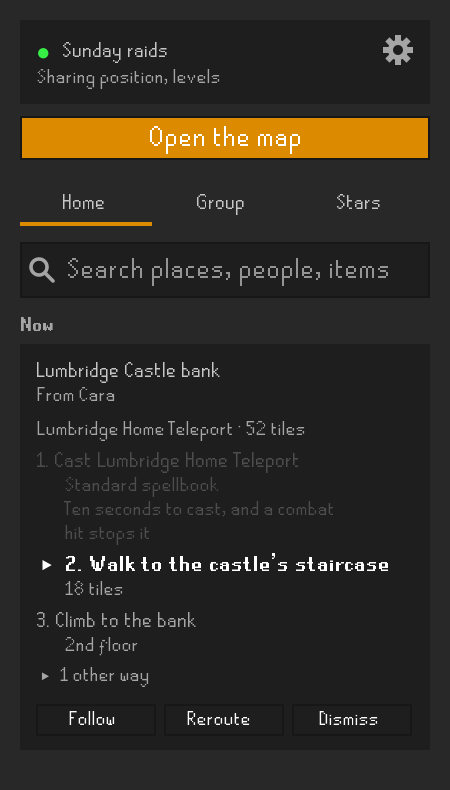
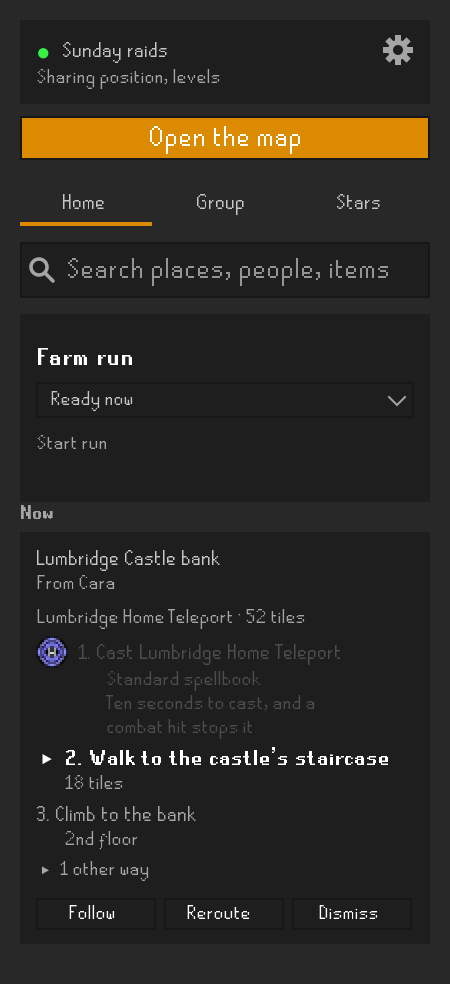
Picture the route and farm run with their steps' sprites
The README's route picture now shows the home teleport's spell icon on its step, and the farm run
picture the Catherby tablet's sprite on the current leg, as the sidebar draws them. Both are the
actual panels painted by the polish renderer, which now sets a step's picture by the field the
map sends and answers a spell's sprite id from the website's copy of the same icon. The route
picture is taller than the one it replaces because Home has carried the Farm run picker since.

The before and after renders are kept with a note on what the renderer can and cannot show: it
reads the website's copies of the art, so loading from a live client's caches stays a live check.
A phone preview of the README at 320, 390 and 736px in both themes loaded every picture with no
overflow.

diff --git a/docs/review-evidence/sidebar-polish-2026-10-29/SidebarPolishShot.java b/docs/review-evidence/sidebar-polish-2026-10-29/SidebarPolishShot.java
@@ -383,8 +383,8 @@ public class SidebarPolishShot
 		best.best = true;
 		best.tiles = 52;
 		best.steps = new ArrayList<>(Arrays.asList(
-			Steps.icon(step("method", "Cast Lumbridge Home Teleport", "Standard spellbook", false, 3222, 3218, null,
-				"Ten seconds to cast, and a combat hit stops it"), "spell:lumbridge-home-teleport"),
+			Steps.picture(step("method", "Cast Lumbridge Home Teleport", "Standard spellbook", false, 3222, 3218, null,
+				"Ten seconds to cast, and a combat hit stops it"), "spriteId", net.runelite.api.gameval.SpriteID.Magicon2.LUMBRIDGE_HOME_TELEPORT),
 			step("walk-leg", "Walk to the castle's staircase", "18 tiles", true, 3206, 3209, null),
 			step("walk-leg", "Climb to the bank", "2nd floor", true, 3208, 3220, 2)));
 		RelayResponse.RouteOption ring = new RelayResponse.RouteOption();
@@ -392,7 +392,7 @@ public class SidebarPolishShot
 		ring.label = "Ring of dueling";
 		ring.tiles = 80;
 		ring.steps = new ArrayList<>(Collections.singletonList(
-			Steps.icon(step("method", "Rub a ring of dueling", "Ferox Enclave", false, 3150, 3635, null), "item:2552")));
+			Steps.picture(step("method", "Rub a ring of dueling", "Ferox Enclave", false, 3150, 3635, null), "itemId", 2552)));
 		RelayResponse.Route route = new RelayResponse.Route();
 		route.origin = "shared";
 		route.options = new ArrayList<>(Arrays.asList(best, ring));
@@ -402,17 +402,18 @@ public class SidebarPolishShot
 	/** A step's icon where this build reads one; nothing where it does not. */
 	static final class Steps
 	{
-		static RelayResponse.RouteStep icon(RelayResponse.RouteStep step, String icon)
+		/** A step's picture by the id the map sends, {@code itemId} or {@code spriteId}; set by name so this still runs on a step that has neither. */
+		static RelayResponse.RouteStep picture(RelayResponse.RouteStep step, String field, int id)
 		{
 			try
 			{
-				Field field = RelayResponse.RouteStep.class.getDeclaredField("icon");
-				field.setAccessible(true);
-				field.set(step, icon);
+				Field picture = RelayResponse.RouteStep.class.getDeclaredField(field);
+				picture.setAccessible(true);
+				picture.set(step, id);
 			}
 			catch (ReflectiveOperationException absent)
 			{
-				/* An older step reads no icon. */
+				/* An older step reads no picture. */
 			}
 			return step;
 		}

diff --git a/docs/review-evidence/sidebar-polish-2026-10-29/Sprites.java b/docs/review-evidence/sidebar-polish-2026-10-29/Sprites.java
@@ -24,6 +24,11 @@ final class Sprites
 
 	/** The item ids the scenes use, by the website's file for them. */
 	static final Map<Integer, String> ITEMS = new HashMap<>();
+	/**
+	 * The spell icons the scenes use, by the website's copy of the same picture: the client's sprite
+	 * cache holds the spellbook's icons, which a renderer without a running game cannot open.
+	 */
+	static final Map<Integer, String> SPELLS = new HashMap<>();
 
 	static
 	{
@@ -34,6 +39,8 @@ final class Sprites
 		ITEMS.put(4151, "abyssal-whip");
 		ITEMS.put(net.runelite.api.gameval.ItemID.LUNAR_TABLET_CATHERBY_TELEPORT, "catherby-teleport-tablet");
 		ITEMS.put(net.runelite.api.gameval.ItemID.MYSTIC_ROBE_BOTTOM_DARK, "mystic-robe-bottom-dark");
+		SPELLS.put(net.runelite.api.gameval.SpriteID.Magicon2.LUMBRIDGE_HOME_TELEPORT, "home-teleport");
+		SPELLS.put(net.runelite.api.gameval.SpriteID.MagicNecroOn.DRAYNOR_MANOR_TELEPORT, "draynor-manor-teleport");
 	}
 
 	/** The same item sprite that the live client's ItemManager supplies to Drop luck. */
@@ -69,7 +76,8 @@ final class Sprites
 			{
 				/* The combat tab's crossed swords is the one sprite the website keeps under a name of its own. */
 				show(label, read(root, spriteId == net.runelite.api.gameval.SpriteID.SideIcons.COMBAT
-					? "osrs-icons/1x/skill-combat.png" : "osrs-icons/cache/" + spriteId + ".png"), box);
+					? "osrs-icons/1x/skill-combat.png" : SPELLS.containsKey(spriteId)
+					? "osrs-icons/1x/" + SPELLS.get(spriteId) + ".png" : "osrs-icons/cache/" + spriteId + ".png"), box);
 			}
 
 			/**

diff --git a/docs/review-evidence/route-step-icons-2026-11-01/README.md b/docs/review-evidence/route-step-icons-2026-11-01/README.md
@@ -1,0 +1,25 @@
+# Route-step pictures — 1 November 2026
+
+A teleport step in the sidebar's route now carries the game's picture of what to click, by the
+item id or spell sprite id the map sends (the map's `lib/route-step-icons.ts`; this repository's
+copy is `src/test/resources/contract/route-step-icons.json`, asserted against `gameval` by
+`RouteStepIconsTest`).
+
+The four pictures here are the actual `RouteStepsView` and `FarmRunPanel`, painted by
+`sidebar-polish-2026-10-29/SidebarPolishShot.java` with RuneLite 1.13.4's look and feel, before
+(on `9b8f6a8`) and after this change, in the `route` and `farm-card` scenes:
+
+- `route-before.png` / `route-after.png`: Lumbridge Home Teleport's step gains the spell's icon;
+  the two walking steps stay words.
+- `farm-card-before.png` / `farm-card-after.png`: the current leg's *Use Catherby tablet* gains the
+  tablet's sprite. The fourth stop reads *Draynor Manor Teleport* after because the shared run
+  fixture now reaches it by that spell, so the fixture carries a spell's picture as well as items.
+
+`docs/mockups/sidebar-route.png` and `docs/mockups/sidebar-farm-run.png` are the `route` and
+`farm-bring` scenes as they render now. The route picture is taller than the one it replaces
+because Home has carried the *Farm run* picker since that picture was taken.
+
+Sprites are the website's copies of the same art, read through `OSRS_MAP_PUBLIC`: the home
+teleport's icon from `osrs-icons/1x/home-teleport.png` and the tablet's from its item file. A
+running client draws them from its own caches through `ItemManager` and `SpriteManager`, which
+this renderer cannot open; that is still a live check in `docs/live-checks.md`. Names are made up.

diff --git a/README.md b/README.md
@@ -10,10 +10,11 @@ and see your character and friends on the website.
 ## Routes in RuneLite
 
 <p>
-  <img src="docs/mockups/sidebar-route.png" width="300" alt="A route to Lumbridge Castle bank in the real plugin sidebar: numbered steps, the current walk highlighted, and Follow, Reroute and Dismiss">
+  <img src="docs/mockups/sidebar-route.png" width="300" alt="A route to Lumbridge Castle bank in the real plugin sidebar: numbered steps, the home teleport's spell icon on its step, the current walk highlighted, and Follow, Reroute and Dismiss">
 </p>
 
 Send a place from the website or pick a search result, and the sidebar lists the way there.
+A teleport step shows what to click: the item's sprite or the spell's icon, from the game.
 Each step gets a numbered pin on the game's world map; the game's arrow points at the current
 step when it is in the loaded area.
 
